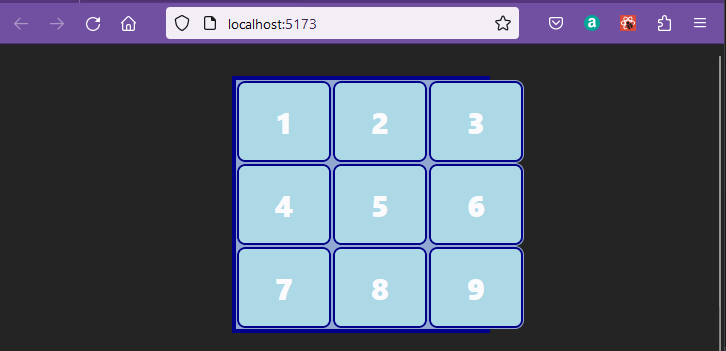
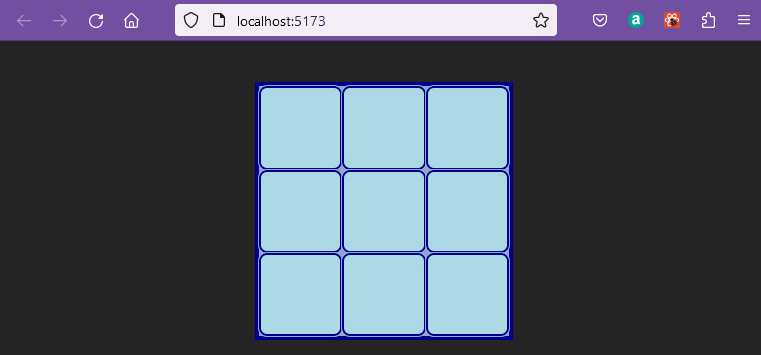
working

diff --git a/Block_REACT/section_6/tictactoe.md b/Block_REACT/section_6/tictactoe.md
@@ -125,8 +125,8 @@ By creating a type the property types of the Square can be summarised and then S
 import React,  { MouseEvent } from 'react';
 
 type SquareProps = {
-    value : string;
-    onClick: (event: React.MouseEvent<HTMLButtonElement>) => void;
+    value : Int8Array;
+    onClick: (event: MouseEvent<HTMLButtonElement>) => void;
 }
 
 const Square = ({ value, onClick }:SquareProps) => {
@@ -153,26 +153,28 @@ import React from 'react';
 import Square from './Square';
 
 interface BoardProps {
-	onClick: (dummy:string) => void;
+    squares: Array<Int8Array>,
+	onClick: (i:number) => void;
 }
 
-const Board = ({ onClick }:BoardProps) => {
+const Board = ({ squares, onClick }:BoardProps) => {
     return(
-    <div>
-        <Square value="1" onClick={() => onClick("dummy value")} />
-        <Square value="2" onClick={() => onClick("dummy value")} />
-        <Square value="3" onClick={() => onClick("dummy value")} />
-        <Square value="4" onClick={() => onClick("dummy value")} />
-        <Square value="5" onClick={() => onClick("dummy value")} />
-        <Square value="6" onClick={() => onClick("dummy value")} />
-        <Square value="7" onClick={() => onClick("dummy value")} />
-        <Square value="8" onClick={() => onClick("dummy value")} />
-        <Square value="9" onClick={() => onClick("dummy value")} />
-    </div>
+    <GridDiv>
+        <Square value ={squares[0]} onClick={() => onClick(0)} />
+        <Square value ={squares[1]} onClick={() => onClick(1)} />
+        <Square value ={squares[2]} onClick={() => onClick(2)} />
+        <Square value ={squares[3]} onClick={() => onClick(3)} />
+        <Square value ={squares[4]} onClick={() => onClick(4)} />
+        <Square value ={squares[5]} onClick={() => onClick(5)} />
+        <Square value ={squares[6]} onClick={() => onClick(6)} />
+        <Square value ={squares[7]} onClick={() => onClick(7)} />
+        <Square value ={squares[8]} onClick={() => onClick(8)} />
+    </GridDiv>
     )
 }
 
 export default Board;
+
 ```
 
 ### Game
@@ -252,18 +254,22 @@ import React,  { MouseEvent } from 'react';
 import styled from "styled-components";
 
 type SquareProps = {
-    value : string;
+    value : Int8Array;
     onClick: (event: MouseEvent<HTMLButtonElement>) => void;
 }
 
 const MyButton = styled.button`
 background: lightblue;
 border: 2px solid darkblue;
-font-size: 30px;
+font-size:25px;
 font-weight: 800;
 cursor: pointer;
-outline: none;
+outline-style: solid;
+outline-width: thin;
+outline-color:  #92a8d1;
+/*margin: 1px;*/
 `;
+
 
 
 const Square = ({ value, onClick }:SquareProps) => {
@@ -296,8 +302,8 @@ const GridDiv = styled.div`
 background-color:#92a8d1;
 border: 4px solid darkblue;
 borderRadius: 10px;
-width: 250px;
-height:"250px;
+width:  250px;
+height: 250px;
 margin: 0 auto;
 display: grid;
 grid-template: repeat(3, 1fr) / repeat(3, 1fr);
@@ -309,23 +315,24 @@ interface BoardProps {
 	onClick: (i:number) => void;
 }
 
-const Board = ({ onClick }:BoardProps) => {
+const Board = ({ squares, onClick }:BoardProps) => {
     return(
     <GridDiv>
-        <Square value="1" onClick={() => onClick(1)} />
-        <Square value="2" onClick={() => onClick(2)} />
-        <Square value="3" onClick={() => onClick(3)} />
-        <Square value="4" onClick={() => onClick(4)} />
-        <Square value="5" onClick={() => onClick(5)} />
-        <Square value="6" onClick={() => onClick(6)} />
-        <Square value="7" onClick={() => onClick(7)} />
-        <Square value="8" onClick={() => onClick(8)} />
-        <Square value="9" onClick={() => onClick(9)} />
+        <Square value ={squares[0]} onClick={() => onClick(0)} />
+        <Square value ={squares[1]} onClick={() => onClick(1)} />
+        <Square value ={squares[2]} onClick={() => onClick(2)} />
+        <Square value ={squares[3]} onClick={() => onClick(3)} />
+        <Square value ={squares[4]} onClick={() => onClick(4)} />
+        <Square value ={squares[5]} onClick={() => onClick(5)} />
+        <Square value ={squares[6]} onClick={() => onClick(6)} />
+        <Square value ={squares[7]} onClick={() => onClick(7)} />
+        <Square value ={squares[8]} onClick={() => onClick(8)} />
     </GridDiv>
     )
 }
 
 export default Board;
+
 ```
 
 ![styled board](images/styledBoard.png)
@@ -382,6 +389,7 @@ const GameState = styled.div`
 	margin: 20px auto;
 `;
 
+
 const  Game = () => {
 	const [history, setHistory] = useState([Array(9).fill(null)]);
 	const [stepNumber, setStepNumber] = useState(0);
@@ -436,81 +444,6 @@ export default Game;
 
 The return function uses [<Fragment> ](https://react.dev/reference/react/Fragment) to allow elements to be grouped without a wrapper node.
 
-Then working up the chain:
+The game can now be played with history.
 
-**Board.tsx**
-```javascript
-import React from 'react';
-import Square from './Square';
-import styled from "styled-components";
-
-
-const GridDiv = styled.div`
-background-color:red,
-border: 4px solid darkblue,
-borderRadius: 10px,
-width: 250px,
-height:"250px,
-margin: 0 auto,
-display: grid,
-gridTemplate: repeat(3, 1fr) / repeat(3, 1fr)
-`;
-
-
-interface BoardProps {
-    squares: Array<Int8Array>,
-	onClick: (i:number) => void;
-}
-
-const Board = ({ onClick }:BoardProps) => {
-    return(
-    <GridDiv>
-        <Square value="1" onClick={() => onClick(1)} />
-        <Square value="2" onClick={() => onClick(2)} />
-        <Square value="3" onClick={() => onClick(3)} />
-        <Square value="4" onClick={() => onClick(4)} />
-        <Square value="5" onClick={() => onClick(5)} />
-        <Square value="6" onClick={() => onClick(6)} />
-        <Square value="7" onClick={() => onClick(7)} />
-        <Square value="8" onClick={() => onClick(8)} />
-        <Square value="9" onClick={() => onClick(9)} />
-    </GridDiv>
-    )
-}
-
-export default Board;
-
-```
-
-And Finally **Square.tsx**
-
-```javascript
-import React,  { MouseEvent } from 'react';
-import styled from "styled-components";
-
-type SquareProps = {
-    value : string;
-    onClick: (event: MouseEvent<HTMLButtonElement>) => void;
-}
-
-const MyButton = styled.button`
-background: lightblue;
-border: 2px solid darkblue;
-font-size: 30px;
-font-weight: 800;
-cursor: pointer;
-outline: none;
-`;
-
-
-
-const Square = ({ value, onClick }:SquareProps) => {
-    return(
-    <MyButton  onClick={onClick}>
-        {value}
-    </MyButton>
-    )
-}
-
-export default Square;
-```
+![Game play](images/play.png)
